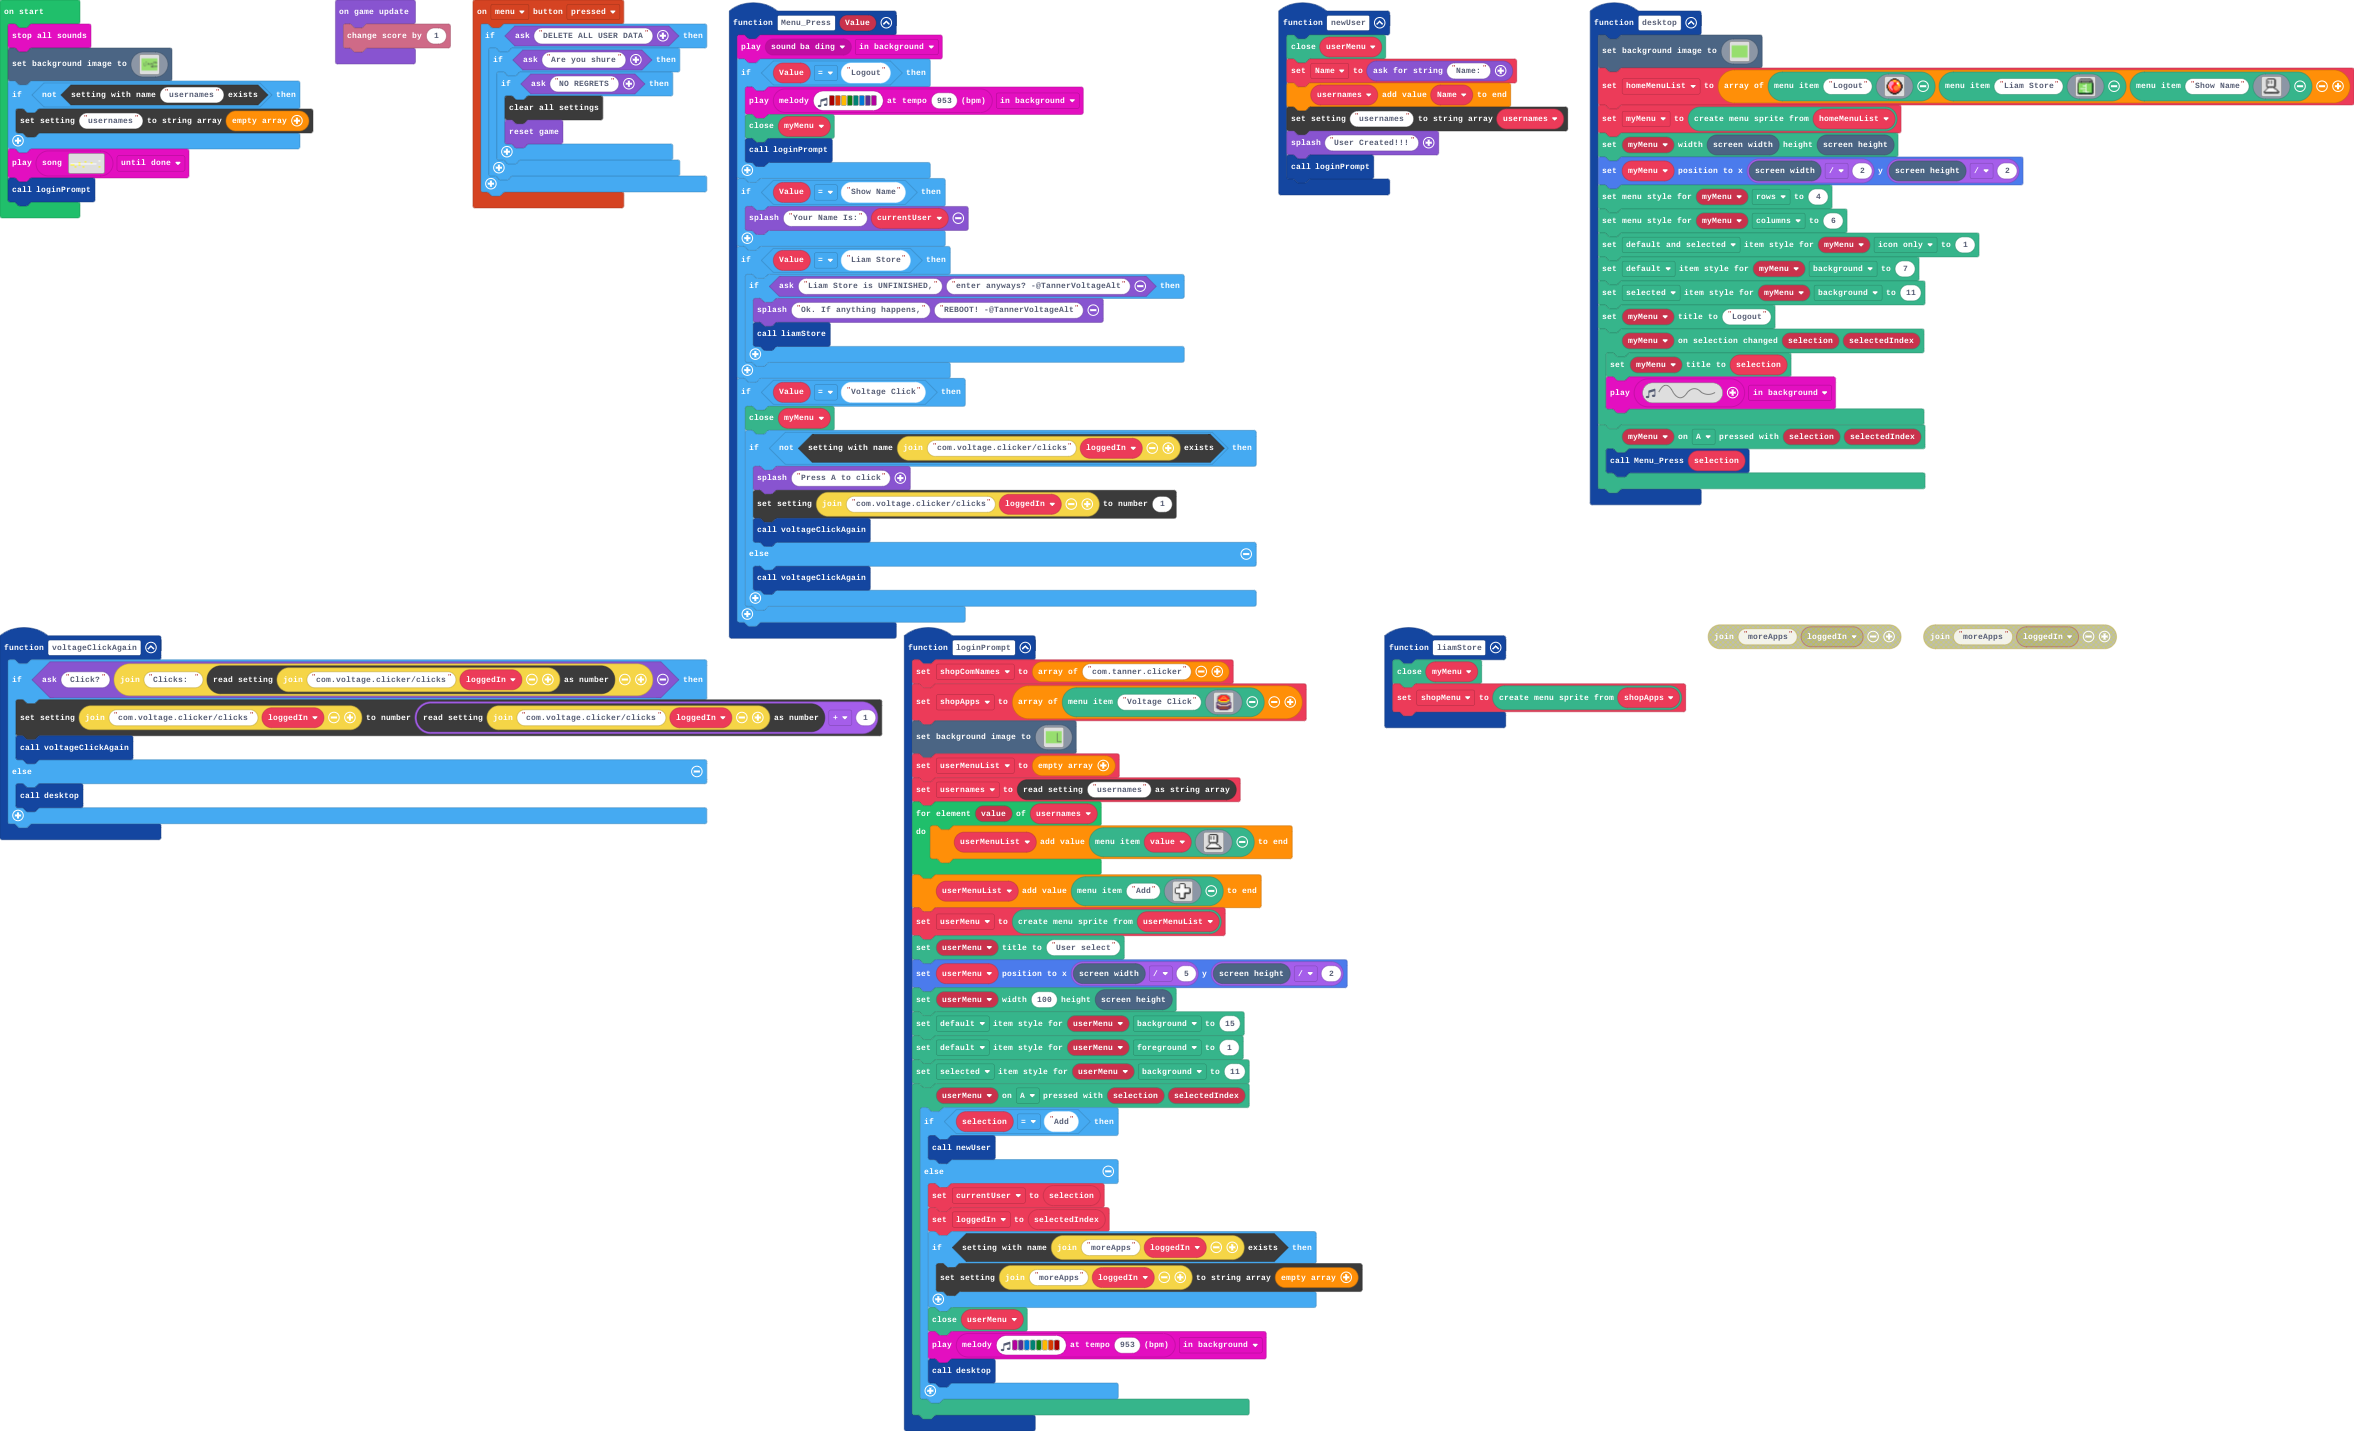
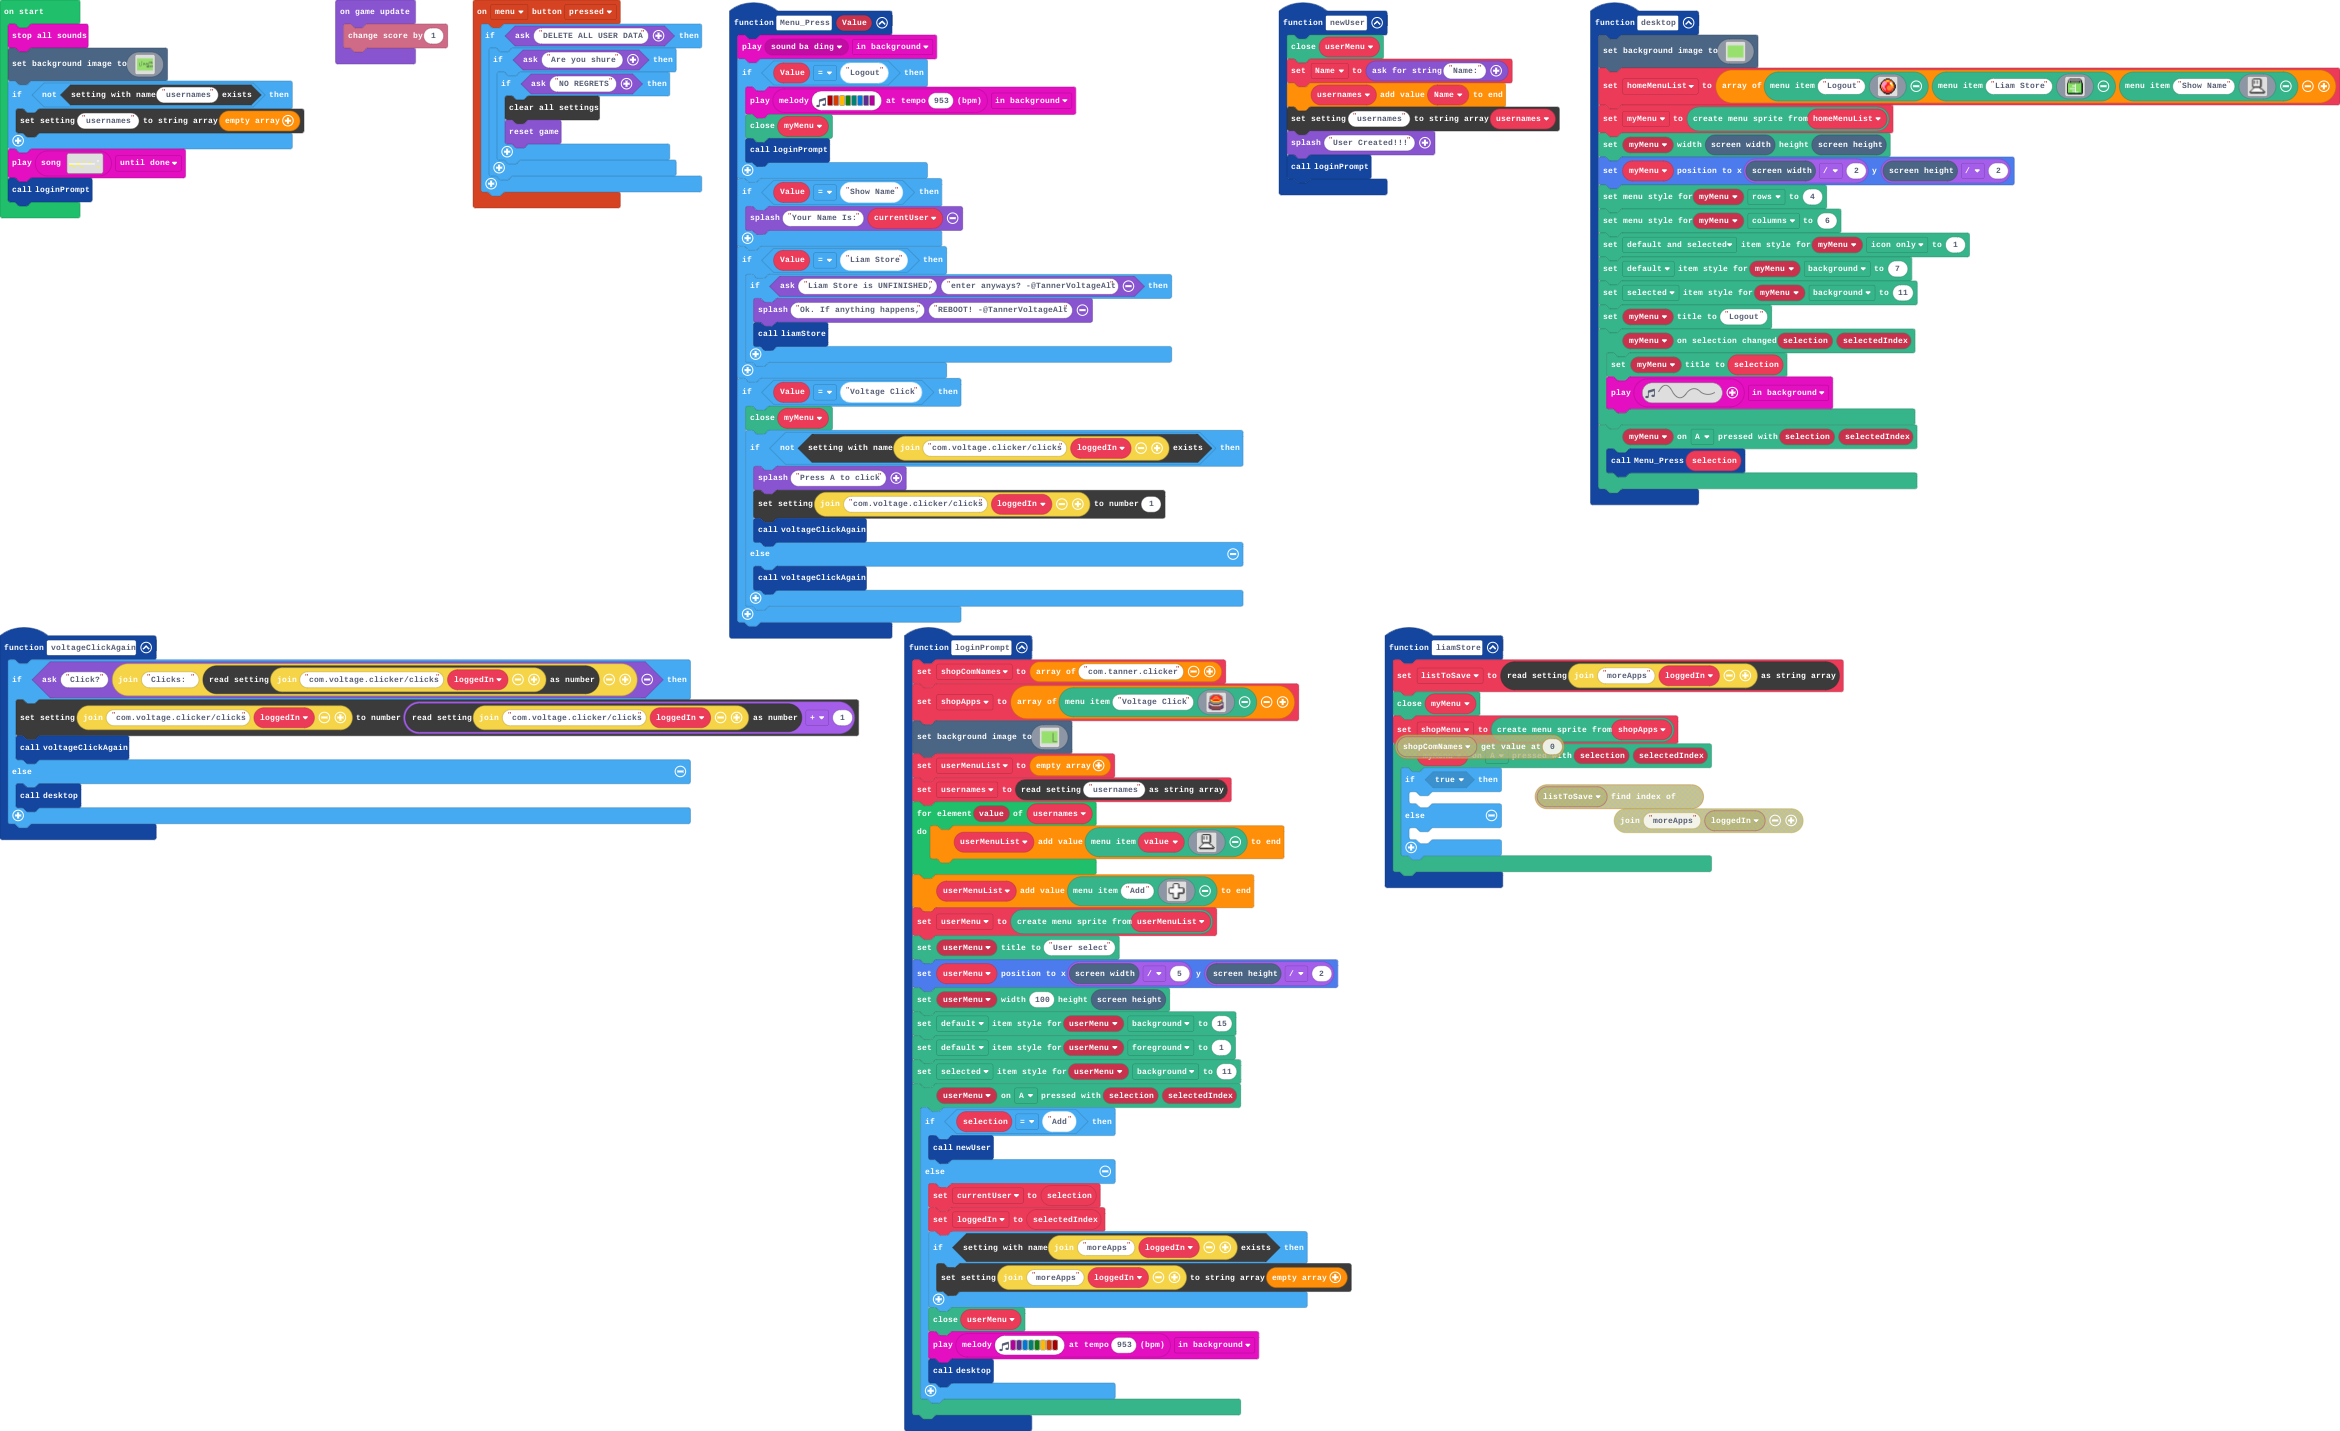
Update main.blocks, main.ts, images.g.jres, images.g.ts

diff --git a/images.g.ts b/images.g.ts
@@ -715,7 +715,7 @@ f 4 2 3 3 2 2 4 4 4 4 4 4 4 e f
     helpers._registerFactory("song", function(name: string) {
         switch(helpers.stringTrim(name)) {
             case "song1":
[2 lines of base64/hex data omitted]
         }
         return null;
     })

diff --git a/main.ts b/main.ts
@@ -195,10 +195,19 @@ function newUser () {
     loginPrompt()
 }
 function liamStore () {
+    listToSave = blockSettings.readStringArray("moreApps" + loggedIn)
     myMenu.close()
     shopMenu = miniMenu.createMenuFromArray(shopApps)
+    myMenu.onButtonPressed(controller.A, function (selection, selectedIndex) {
+        if (true) {
+        	
+        } else {
+        	
+        }
+    })
 }
 let shopMenu: miniMenu.MenuSprite = null
+let listToSave: string[] = []
 let Name = ""
 let myMenu: miniMenu.MenuSprite = null
 let homeMenuList: miniMenu.MenuItem[] = []
